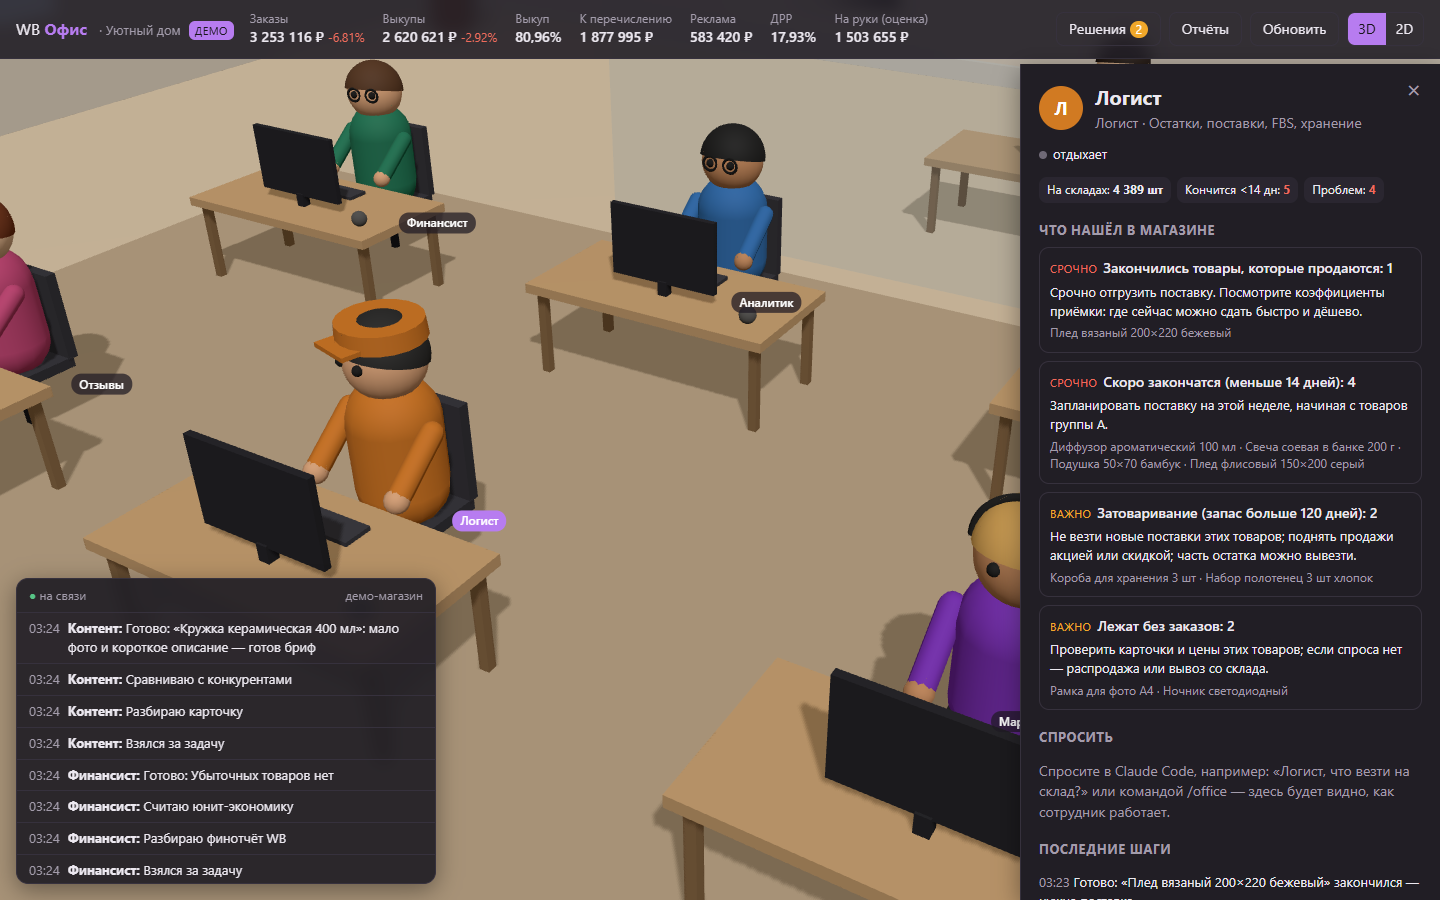
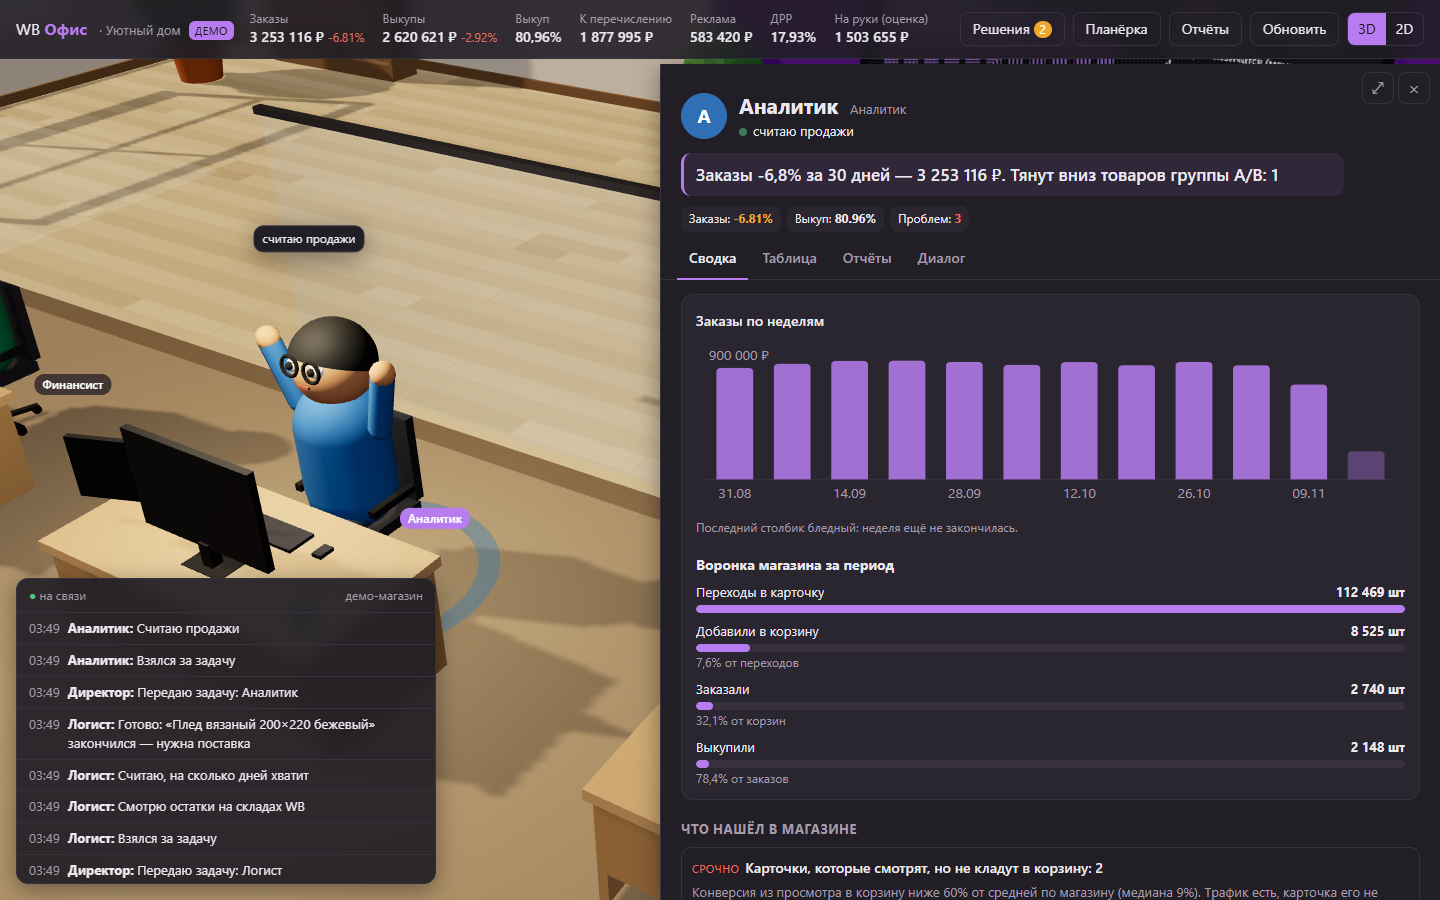
Офис: планёрка, скриншоты рабочего стола, README
- Планёрка: раз в день и по кнопке камера обходит столы, каждый сотрудник
  говорит главный вывод с цифрой, в конце — сколько решений ждут человека.
- Неполная последняя неделя на графике бледная (не «обвал»), выкуп >100%
  в карточке товара с пояснением.
- Скриншоты: офис, рабочий стол аналитика, таблица логиста, планёрка, 2D.

diff --git a/office/web/app.js b/office/web/app.js
@@ -241,6 +241,7 @@ function wsContext() {
 
 function openAgent(id, tab) {
   if (!state.agents.has(id)) return;
+  state.office?.stopTour();
   state.selected = id;
   state.panel = "agent";
   workspace.open(id, tab);
@@ -467,6 +468,9 @@ async function main() {
   setView(store.get("office-view") === "2d" || matchMedia("(max-width: 520px)").matches ? "2d" : "3d");
   await Promise.all([refreshSnapshot(), refreshApprovals(), refreshReports(), refreshTasks()]);
 
+  // Утренняя планёрка — сама, один раз в день, если открыт 3D и есть данные.
+  if (state.view === "3d" && state.office && snap() && store.get("office-meeting") !== new Date().toDateString()) setTimeout(runMeeting, 1200);
+
   const last = events.length ? events[events.length - 1].seq : 0;
   const es = new EventSource(`/api/stream?after=${last}`);
   es.onopen = () => ($("conn").innerHTML = "<b>●</b> на связи");
@@ -481,6 +485,30 @@ async function main() {
     renderScreens();
   }, 60_000);
 }
+
+/* ---------- Планёрка ---------- */
+
+const MEETING_ORDER = ["director", "analyst", "finance", "logist", "marketer", "reviews", "content", "scout", "reports"];
+
+/** Камера обходит столы, каждый говорит главное с цифрой; в конце — сколько решений ждут человека. */
+function runMeeting() {
+  if (state.view !== "3d" || !state.office) {
+    setView("3d");
+    if (!state.office) return notice("Планёрка показывается в 3D, а этот компьютер не умеет 3D");
+  }
+  closePanel();
+  const s = snap();
+  const lines = MEETING_ORDER.filter((id) => state.agents.has(id)).map((id) => ({ id, text: headlineFor(id, s, { reports: state.reports }) }));
+  if (!lines.some((l) => l.text)) return notice("Данных WB пока нет — планёрке нечего обсудить");
+  store.set("office-meeting", new Date().toDateString());
+  state.office.tour(lines, {
+    onEnd() {
+      const n = state.approvals.filter((a) => a.status === "pending").length;
+      notice(n ? `Планёрка окончена. Ждут вашего решения: ${n} — кнопка «Решения»` : "Планёрка окончена. Решений от вас сейчас не ждут.");
+    },
+  });
+}
+$("meeting-btn").addEventListener("click", runMeeting);
 
 $("panel-close").addEventListener("click", closePanel);
 $("panel-full").addEventListener("click", () => $("panel").classList.toggle("full"));
@@ -497,7 +525,10 @@ $("sync-btn").addEventListener("click", async () => {
   }
 });
 document.addEventListener("keydown", (e) => {
-  if (e.key === "Escape" && !$("modal").open) closePanel();
+  if (e.key === "Escape" && !$("modal").open) {
+    state.office?.stopTour();
+    closePanel();
+  }
   // Enter на строке таблицы — как щелчок (карточка товара).
   if (e.key === "Enter" && e.target.matches?.("tr[data-nm]")) openProduct(Number(e.target.dataset.nm));
 });

diff --git a/office/web/office3d.js b/office/web/office3d.js
@@ -426,7 +426,10 @@ export class Office3D {
     controls.minDistance = 5;
     controls.maxDistance = 40;
     this.controls = controls;
-    controls.addEventListener("start", () => (this.fly = null));
+    controls.addEventListener("start", () => {
+      this.fly = null;
+      this.stopTour();
+    });
     controls.addEventListener("change", () => (this.movedAt = performance.now()));
 
     // Свет: мягкое небо + тёплое низкое солнце из окна (слева) + немного заполняющего.
@@ -879,6 +882,9 @@ export class Office3D {
     const p = this.people.get(id);
     if (!p) return;
     p.status = status;
+    p.activityText = activity;
+    // Пока сотрудник «говорит» на планёрке, его облачко не перебиваем — статус применится после.
+    if (p.saying) return;
     const text = status === "waiting" ? "! ждёт вашего решения" : activity;
     p.bubbleEl.textContent = text || "";
     p.bubbleEl.className = `bubble ${status}`;
@@ -939,6 +945,52 @@ export class Office3D {
     const shift = this.container.clientWidth > 900 ? 2.6 : 0;
     const t = p.root.position.clone().add(new THREE.Vector3(shift * 0.8, 1, -0.6 - shift * 0.6));
     this.flyTo(t.clone().add(new THREE.Vector3(3.6, 4.4, 6.2)), t);
+  }
+
+  /**
+   * Планёрка: камера по очереди подлетает к сотрудникам, каждый «говорит» свою
+   * главную фразу. lines: [{ id, text }]. Любой клик или вращение — конец.
+   */
+  tour(lines, { onEnd, stepMs = 2600 } = {}) {
+    this.stopTour();
+    const list = lines.filter((l) => this.people.has(l.id) && l.text);
+    if (!list.length) return;
+    let i = 0;
+    const say = (p, text) => {
+      p.saying = true;
+      p.bubbleEl.textContent = text;
+      p.bubbleEl.className = "bubble say";
+      p.bubbleEl.hidden = false;
+    };
+    const unsay = (p) => {
+      if (!p?.saying) return;
+      p.saying = false;
+      this.setAgent(p.id, p.status, p.activityText);
+    };
+    const next = () => {
+      unsay(this.people.get(list[i - 1]?.id));
+      if (i >= list.length) return this.stopTour(true);
+      const p = this.people.get(list[i].id);
+      const t = p.root.position.clone().add(new THREE.Vector3(0, 1, -0.6));
+      this.flyTo(t.clone().add(new THREE.Vector3(4.2, 5.2, 7.4)), t);
+      this.placeRing(p);
+      say(p, list[i].text);
+      i++;
+      this.tourState.timer = setTimeout(next, this.reduceMotion ? stepMs * 1.5 : stepMs);
+    };
+    this.tourState = { onEnd, timer: null, cleanup: () => list.forEach((l) => unsay(this.people.get(l.id))) };
+    next();
+  }
+
+  stopTour(finished = false) {
+    const st = this.tourState;
+    if (!st) return;
+    this.tourState = null;
+    clearTimeout(st.timer);
+    st.cleanup();
+    this.ring.visible = false;
+    this.flyTo(this.home.pos, this.home.target);
+    st.onEnd?.(finished);
   }
 
   placeRing(p) {

diff --git a/scripts/office-screenshots.ts b/scripts/office-screenshots.ts
@@ -73,17 +73,28 @@ async function main() {
     await send("Emulation.setDeviceMetricsOverride", { width: 1440, height: 900, deviceScaleFactor: 1, mobile: false });
     await send("Page.enable");
     await send("Page.navigate", { url: URL_ });
+    await sleep(1500);
+    // Планёрку на скриншотах не запускаем: помечаем, что сегодня она уже была.
+    await js(`localStorage.setItem("office-meeting", new Date().toDateString()); localStorage.setItem("office-view","3d"); location.reload()`);
     await sleep(9000); // данные, сцена, несколько шагов демо-сценария
-    await js(`localStorage.setItem("office-view","3d"); document.getElementById("view-3d").click()`);
-    await sleep(3000);
     await shot("screenshot-office.png");
 
-    // Панель логиста поверх 3D — видно, что сотрудник нашёл в магазине.
-    await js(`window.__office.onSelect("logist")`);
+    // Рабочий стол аналитика: главный вывод, график, воронка.
+    await js(`window.__office.onSelect("analyst")`);
     await sleep(2500);
     await shot("screenshot-agent.png");
 
-    await js(`document.getElementById("panel-close").click(); document.getElementById("view-2d").click()`);
+    // Таблица логиста: остатки и дни запаса с подсветкой.
+    await js(`window.__office.onSelect("logist"); setTimeout(() => document.querySelector('.ws-tabs [data-tab="table"]').click(), 300)`);
+    await sleep(2500);
+    await shot("screenshot-table.png");
+
+    // Планёрка: сотрудник рассказывает главное.
+    await js(`document.getElementById("panel-close").click(); document.getElementById("meeting-btn").click()`);
+    await sleep(6800);
+    await shot("screenshot-meeting.png");
+
+    await js(`window.__office.stopTour(); document.getElementById("view-2d").click()`);
     await sleep(1500);
     await shot("screenshot-cabinet.png");
     await js(`localStorage.setItem("office-view","3d")`);

diff --git a/office/web/index.html b/office/web/index.html
@@ -19,6 +19,7 @@
   <div class="kpis" id="kpis" aria-label="Цифры магазина"></div>
   <div class="actions">
     <button id="approvals-btn" class="btn ghost" type="button" title="Ждут вашего решения">Решения <span id="approvals-count" class="count">0</span></button>
+    <button id="meeting-btn" class="btn ghost" type="button" title="Каждый сотрудник коротко расскажет главное">Планёрка</button>
     <button id="reports-btn" class="btn ghost" type="button">Отчёты</button>
     <button id="sync-btn" class="btn ghost" type="button" title="Обновить данные WB">Обновить</button>
     <div class="seg" role="group" aria-label="Вид">

diff --git a/office/web/workspace.css b/office/web/workspace.css
@@ -109,3 +109,6 @@
   #panel-full { display: none; }
   .ws-head { padding-right: 56px; }
 }
+
+/* Планёрка: сотрудник «говорит» свою главную фразу */
+.bubble.say { max-width: 280px; white-space: normal; background: var(--accent); color: var(--accent-ink); border-color: var(--accent); font-size: 13px; font-weight: 600; line-height: 1.35; padding: 8px 12px; }
